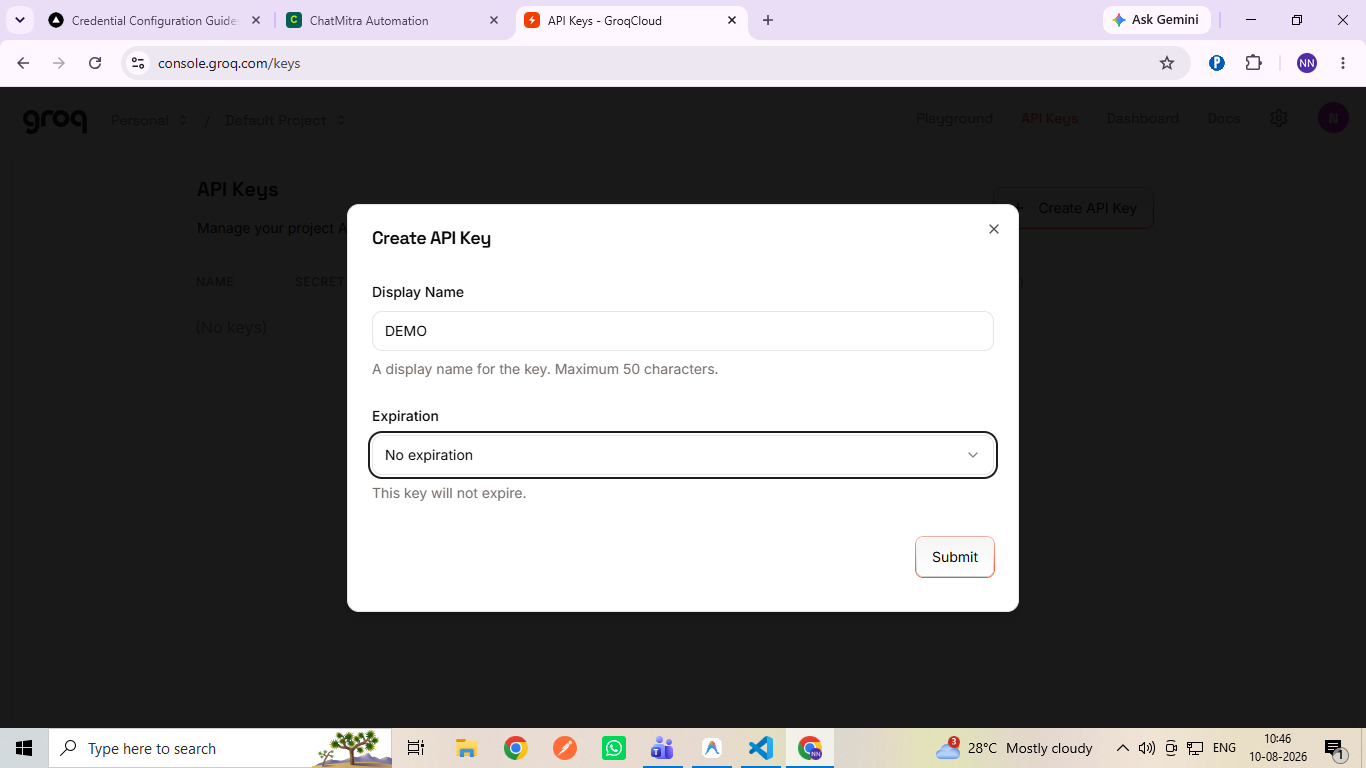
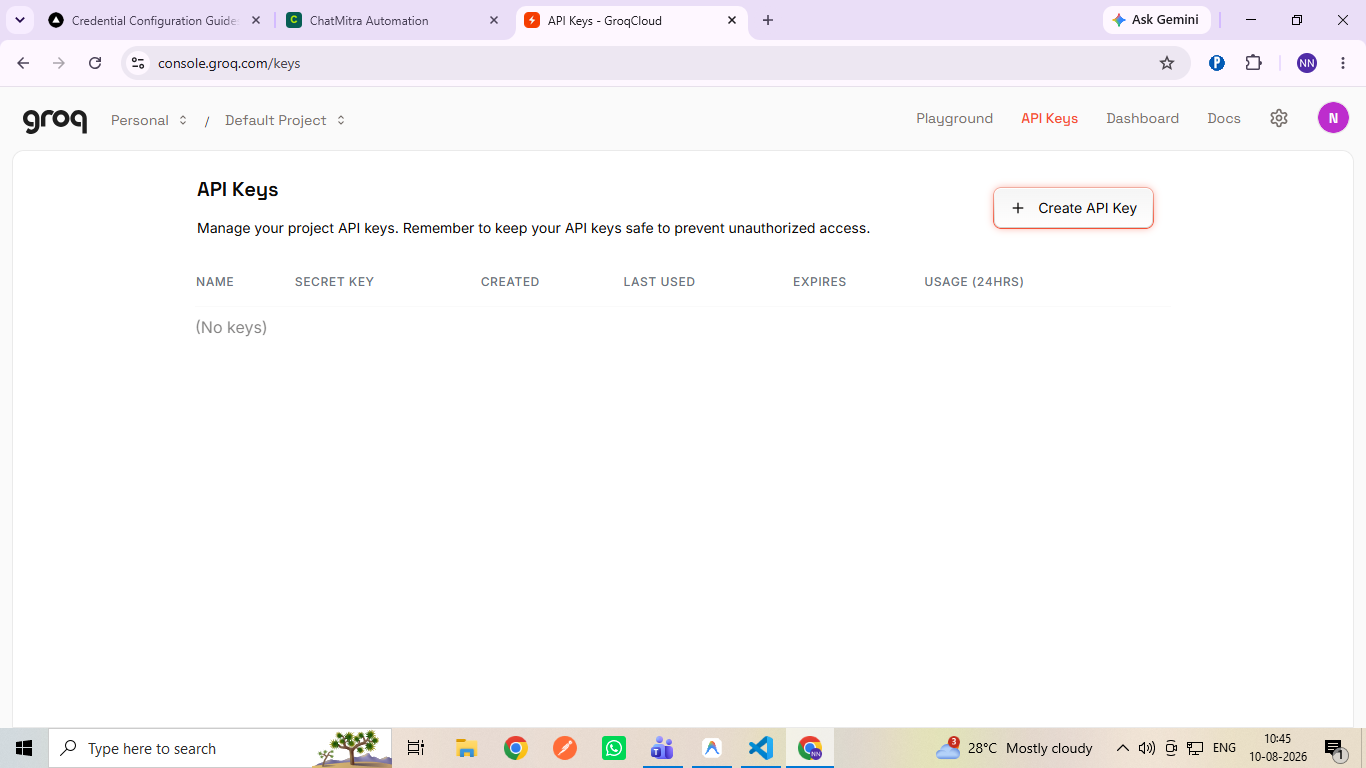
feat: add Groq and Gemini credential steps with updated images and descriptions

diff --git a/src/data/credentials-data.ts b/src/data/credentials-data.ts
@@ -172,48 +172,153 @@ export const CREDENTIAL_PROVIDERS: Record<string, CredentialProvider> = {
     appUrl: "https://console.groq.com/keys",
     steps: [
       {
-        image: "/credentials/step1.webp",
-        title: "Open Groq Console",
-        description: "Navigate to https://console.groq.com/keys and log in.",
-        addressUrl: "https://console.groq.com/keys",
-        hotspot: {
-          target: "image",
-          top: "4.2%",
-          left: "24.5%",
-          popoverTop: "38%",
-          popoverLeft: "50%",
-          title: "Step 1: Open Groq Console ⚡",
-          detail: "Go to console.groq.com/keys.",
-        },
-      },
-      {
-        image: "/credentials/step2.webp",
-        title: "Create API Key",
-        description: "Click 'Create API Key', copy your secret key starting with `gsk_...`.",
-        addressUrl: "https://console.groq.com/keys",
-        hotspot: {
-          target: "image",
-          top: "50%",
-          left: "18%",
-          popoverTop: "65%",
-          popoverLeft: "45%",
-          title: "Step 2: Generate gsk_ Key 🔑",
-          detail: "Copy your Groq API Key.",
-        },
-      },
-      {
-        image: "/credentials/step3.webp",
-        title: "Save in Workflow Mitra",
-        description: "Paste key in Workflow Mitra Vault.",
+        image: "/credentials/grok/step1.png",
+        title: "Open Workflow Mitra & Click + New Credential",
+        description: "Navigate to https://app.workflowmitra.com/credentials and click '+ New Credential' at top right.",
         addressUrl: "https://app.workflowmitra.com/credentials",
         hotspot: {
           target: "image",
-          top: "21%",
-          left: "92%",
+          top: "22%",
+          left: "90%",
           popoverTop: "50%",
+          popoverLeft: "95%",
+          title: "Step 1: Click + New Credential",
+          detail: "Click '+ New Credential' button to open the service provider modal.",
+        },
+      },
+      {
+        image: "/credentials/grok/step1.png",
+        title: "Select Groq Service Provider",
+        description: "In the Service Provider modal dialog, search for 'Groq' under AI Models and click on it.",
+        addressUrl: "https://app.workflowmitra.com/credentials",
+        hotspot: {
+          target: "image",
+          top: "40%",
+          left: "55%",
+          popoverTop: "70%",
+          popoverLeft: "60%",
+          title: "Step 2: Select Groq Provider",
+          detail: "Select Groq (AI) from the provider list to open setup.",
+        },
+      },
+      {
+        image: "/credentials/grok/step2.png",
+        title: "View Groq Credential Form",
+        description: "View the Groq credential form requiring your Credential Name and API Key (starting with gsk_...).",
+        addressUrl: "https://app.workflowmitra.com/credentials",
+        hotspot: {
+          target: "image",
+          top: "55%",
+          left: "58%",
+          popoverTop: "20%",
+          popoverLeft: "90%",
+          title: "Step 3: Groq Credential Form",
+          detail: "Enter your Name and paste your API Key starting with gsk_.",
+        },
+      },
+      {
+        image: "/credentials/grok/image.png",
+        title: "Search & Open Groq Console",
+        description: "Open your web browser and navigate to https://console.groq.com.",
+        addressUrl: "https://console.groq.com",
+        hotspot: {
+          target: "image",
+          top: "19%",
+          left: "22%",
+          popoverTop: "45%",
           popoverLeft: "50%",
-          title: "Step 3: Save Key 🔐",
-          detail: "Click Save Credential.",
+          title: "Step 4: Open Groq Portal",
+          detail: "Type console.groq.com in your browser address bar.",
+        },
+      },
+      {
+        image: "/credentials/grok/step4.png",
+        title: "Sign In to Groq Console",
+        description: "Click 'Continue with Google' or enter your email address to sign into Groq Console.",
+        addressUrl: "https://console.groq.com",
+        hotspot: {
+          target: "image",
+          top: "55%",
+          left: "58%",
+          popoverTop: "20%",
+          popoverLeft: "90%",
+          title: "Step 5: Sign In to Console",
+          detail: "Sign in with Google or Email account.",
+        },
+      },
+      {
+        image: "/credentials/grok/step5.png",
+        title: "Click API Keys Menu",
+        description: "Inside Groq Console sidebar or top header, click on 'API Keys' menu.",
+        addressUrl: "https://console.groq.com/keys",
+        hotspot: {
+          target: "image",
+          top: "19%",
+          left: "77%",
+          popoverTop: "40%",
+          popoverLeft: "90%",
+          title: "Step 6: Click API Keys",
+          detail: "Click API Keys to open token management.",
+        },
+      },
+      {
+        image: "/credentials/grok/step5.png",
+        title: "Click Create API Key",
+        description: "Click the orange/blue 'Create API Key' button to initiate new token generation.",
+        addressUrl: "https://console.groq.com/keys",
+        hotspot: {
+          target: "image",
+          top: "30%",
+          left: "74%",
+          popoverTop: "50%",
+          popoverLeft: "65%",
+          title: "Step 7: Click Create API Key",
+          detail: "Click Create API Key button.",
+        },
+      },
+      {
+        image: "/credentials/grok/step6.png",
+        title: "Enter Key Name & Details",
+        description: "Type a descriptive key name (e.g. 'Workflow Mitra Integration') and click Submit.",
+        addressUrl: "https://console.groq.com/keys",
+        hotspot: {
+          target: "image",
+          top: "51%",
+          left: "35%",
+          popoverTop: "60%",
+          popoverLeft: "60%",
+          title: "Step 8: Enter Details & Submit",
+          detail: "Type key name and click Submit to generate secret key.",
+        },
+      },
+      {
+        image: "/credentials/grok/step7.png",
+        title: "Copy Generated API Key",
+        description: "Click the Copy button to copy your new secret API key starting with 'gsk_...' to your clipboard.",
+        addressUrl: "https://console.groq.com/keys",
+        hotspot: {
+          target: "image",
+          top: "56%",
+          left: "65%",
+          popoverTop: "20%",
+          popoverLeft: "50%",
+          title: "Step 9: Copy API Key",
+          detail: "Click Copy to save your secret gsk_ API key.",
+        },
+      },
+      {
+        image: "/credentials/grok/step8.png",
+        title: "Save Encrypted Groq Credential",
+        description: "Return to Workflow Mitra, enter your Credential Name, paste your gsk_ API Key, and click 'Save credential'.",
+        addressUrl: "https://app.workflowmitra.com/credentials",
+        hotspot: {
+          target: "image",
+          top: "56%",
+          left: "55%",
+          popoverTop: "20%",
+          popoverLeft: "50%",
+          title: "Step 10: Save & Verify Credential",
+          detail: "Type Credential Name, paste API Key, and click Save credential.",
         },
       },
     ],
@@ -223,55 +328,160 @@ export const CREDENTIAL_PROVIDERS: Record<string, CredentialProvider> = {
     id: "gemini",
     name: "Google Gemini (AI)",
     category: "AI Models",
-    badge: "API Key (AIza...)",
+    badge: "API Key",
     description: "Power AI workflows with Google Gemini 1.5 Pro, Flash, and Multimodal Vision models.",
     iconName: "Sparkles",
     popular: true,
     appUrl: "https://aistudio.google.com/app/apikey",
     steps: [
       {
-        image: "/credentials/step1.webp",
-        title: "Open Google AI Studio",
-        description: "Navigate to https://aistudio.google.com/app/apikey and sign in with Google.",
-        addressUrl: "https://aistudio.google.com/app/apikey",
-        hotspot: {
-          target: "image",
-          top: "4.2%",
-          left: "24.5%",
-          popoverTop: "38%",
-          popoverLeft: "50%",
-          title: "Step 1: Open AI Studio 🌐",
-          detail: "Go to aistudio.google.com.",
-        },
-      },
-      {
-        image: "/credentials/step2.webp",
-        title: "Create API Key",
-        description: "Click 'Create API key' in Google AI Studio and copy `AIza...` string.",
-        addressUrl: "https://aistudio.google.com",
-        hotspot: {
-          target: "image",
-          top: "50%",
-          left: "18%",
-          popoverTop: "65%",
-          popoverLeft: "45%",
-          title: "Step 2: Copy Gemini Key 🔑",
-          detail: "Copy secret API Key.",
-        },
-      },
-      {
-        image: "/credentials/step3.webp",
-        title: "Save in Workflow Mitra",
-        description: "Paste token in Workflow Mitra Vault.",
+        image: "/credentials/Gemini/step1.png",
+        title: "Open Workflow Mitra & Click + New Credential",
+        description: "Navigate to https://app.workflowmitra.com/credentials and click '+ New Credential' at top right.",
         addressUrl: "https://app.workflowmitra.com/credentials",
         hotspot: {
           target: "image",
-          top: "21%",
-          left: "92%",
+          top: "22%",
+          left: "90%",
           popoverTop: "50%",
+          popoverLeft: "95%",
+          title: "Step 1: Click + New Credential",
+          detail: "Click '+ New Credential' button to open the service provider modal.",
+        },
+      },
+      {
+        image: "/credentials/Gemini/step1.png",
+        title: "Select Gemini Service Provider",
+        description: "In the Service Provider modal dialog, search for 'Gemini' under AI Models and click on it.",
+        addressUrl: "https://app.workflowmitra.com/credentials",
+        hotspot: {
+          target: "image",
+          top: "42%",
+          left: "69%",
+          popoverTop: "70%",
+          popoverLeft: "60%",
+          title: "Step 2: Select Gemini Provider",
+          detail: "Select Google Gemini (AI) from the provider list to open setup.",
+        },
+      },
+      {
+        image: "/credentials/Gemini/step2.png",
+        title: "View Gemini Credential Form",
+        description: "View the Gemini credential form requiring your Credential Name and API Key.",
+        addressUrl: "https://app.workflowmitra.com/credentials",
+        hotspot: {
+          target: "image",
+          top: "55%",
+          left: "58%",
+          popoverTop: "20%",
+          popoverLeft: "90%",
+          title: "Step 3: Gemini Credential Form",
+          detail: "Enter your Name and paste your API Key.",
+        },
+      },
+      {
+        image: "/credentials/Gemini/step3.png",
+        title: "Search & Open Gemini API Console",
+        description: "Open your web browser and navigate to https://aistudio.google.com/app/apikey.",
+        addressUrl: "https://aistudio.google.com/app/apikey",
+        hotspot: {
+          target: "image",
+          top: "19%",
+          left: "30%",
+          popoverTop: "45%",
           popoverLeft: "50%",
-          title: "Step 3: Save Key 🔐",
-          detail: "Click Save Credential.",
+          title: "Step 4: Open AI Studio Portal",
+          detail: "Type aistudio.google.com/app/apikey in your browser address bar.",
+        },
+      },
+      {
+        image: "/credentials/Gemini/step4.png",
+        title: "Click Get API Key Menu",
+        description: "In Google AI Studio sidebar navigation, click on the 'Get API key' or 'API keys' menu.",
+        addressUrl: "https://aistudio.google.com/app/apikey",
+        hotspot: {
+          target: "image",
+          top: "42%",
+          left: "10%",
+          popoverTop: "45%",
+          popoverLeft: "40%",
+          title: "Step 5: Click Get API Key",
+          detail: "Click 'Get API key' from the left sidebar navigation.",
+        },
+      },
+      {
+        image: "/credentials/Gemini/step5.png",
+        title: "Create or View Gemini Key",
+        description: "Click the 'Create API key' button at the top right to start key generation.",
+        addressUrl: "https://aistudio.google.com/app/apikey",
+        hotspot: {
+          target: "image",
+          top: "70%",
+          left: "40%",
+          popoverTop: "80%",
+          popoverLeft: "70%",
+          title: "Step 6: Create or View Key",
+          detail: "Click 'Create API key' button in Google AI Studio.",
+        },
+      },
+      {
+        image: "/credentials/Gemini/step6.png",
+        title: "Select Google Cloud Project",
+        description: "Select 'Create API key in new project' or choose your existing Google Cloud project.",
+        addressUrl: "https://aistudio.google.com/app/apikey",
+        hotspot: {
+          target: "image",
+          top: "23%",
+          left: "88%",
+          popoverTop: "50%",
+          popoverLeft: "80%",
+          title: "Step 7: Select Project & Create",
+          detail: "Click 'Create API key in new project' button.",
+        },
+      },
+      {
+        image: "/credentials/Gemini/step7.png",
+        title: "Generate API Key Details",
+        description: "Wait for Google AI Studio to generate your unique secret Gemini API key.",
+        addressUrl: "https://aistudio.google.com/app/apikey",
+        hotspot: {
+          target: "image",
+          top: "52%",
+          left: "48%",
+          popoverTop: "50%",
+          popoverLeft: "80%",
+          title: "Step 8: Generate API Key",
+          detail: "Confirm key creation in the modal pop-up.",
+        },
+      },
+      {
+        image: "/credentials/Gemini/step8.png",
+        title: "Copy Your Gemini API Key",
+        description: "Click the Copy button to copy your new secret API key to your clipboard.",
+        addressUrl: "https://aistudio.google.com/app/apikey",
+        hotspot: {
+          target: "image",
+          top: "77%",
+          left: "64%",
+          popoverTop: "50%",
+          popoverLeft: "80%",
+          title: "Step 9: Copy API Key",
+          detail: "Click Copy to save your secret API key.",
+        },
+      },
+      {
+        image: "/credentials/Gemini/step9.png",
+        title: "Save Encrypted Gemini Credential",
+        description: "Return to Workflow Mitra, enter your Credential Name, paste your API Key, and click 'Save credential'.",
+        addressUrl: "https://app.workflowmitra.com/credentials",
+        hotspot: {
+          target: "image",
+          top: "65%",
+          left: "68%",
+          popoverTop: "30%",
+          popoverLeft: "40%",
+          title: "Step 10: Save & Verify Credential",
+          detail: "Type Credential Name, paste API Key, and click Save credential.",
         },
       },
     ],
